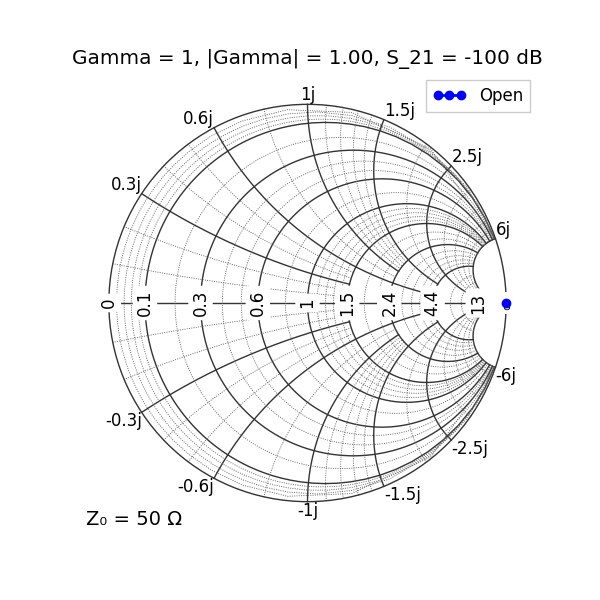
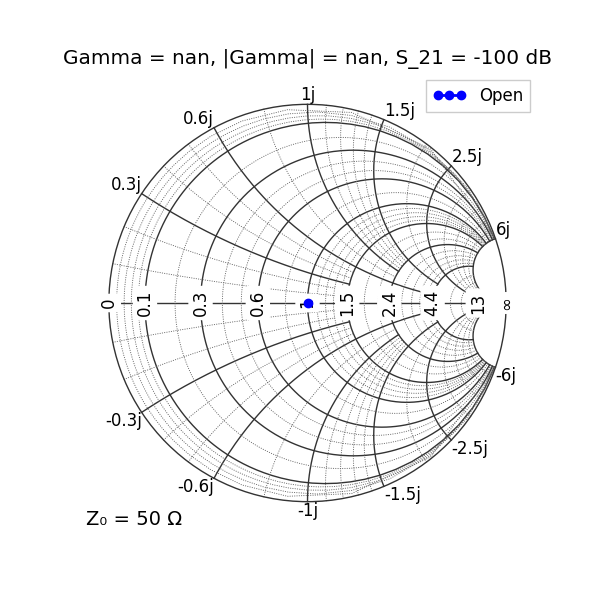
Smith chart plotter

Changed region(s): [[0.09, 0.06, 0.93, 0.12], [0.84, 0.48, 0.87, 0.51], [0.51, 0.48, 0.54, 0.51]]

diff --git a/Lab-3/Prelab/Prelab.py b/Lab-3/Prelab/Prelab.py
@@ -2,32 +2,29 @@ import numpy as np
 import matplotlib.pyplot as plt
 import pysmithchart as smith
 
-def save_smith_chart(gamma: complex, S_21: float, label: str, filename: str):
+def save_smith_chart(Z_0: complex, Z_L: complex, S_21: float, label: str, filename: str):
     plt.figure(figsize=(6, 6))
     ax = plt.subplot(111, projection="smith")
-    # Convert gamma to normalized impedance for pysmithchart
-    if abs(1 - gamma) < 1e-12:
-        z_norm = 1e6  # approximate open circuit
-    else:
-        z_norm = (1 + gamma) / (1 - gamma)
-    ax.plot([z_norm], color="blue", marker="o", ms=6, label=label)
+    gamma = (Z_L - Z_0) / (Z_L + Z_0)
+
+    ax.plot([Z_L], color="blue", marker="o", ms=6, label=label)
     ax.legend(loc="upper right")
+
     ax.set_title(f'Gamma = {gamma}, |Gamma| = {np.abs(gamma):.2f}, S_21 = {S_21} dB')
     plt.savefig(filename + '.png')
     plt.close()
-
 
 if __name__ == "__main__":
 
     Z_0 = 50 # ohms
 
     # Reflection Coefficients
-    matched_gamma = 0 
-    shorted_gamma = -1
-    open_gamma = 1
+    ZL_matched = 50
+    ZL_shorted = 0
+    ZL_open = np.inf
 
     # Corrected S_21 values
-    save_smith_chart(gamma=shorted_gamma,S_21=-100, label='Short', filename='Short_Terminated')
-    save_smith_chart(gamma=open_gamma, S_21=-100, label='Open', filename='Open_Terminated')
-    save_smith_chart(gamma=matched_gamma, S_21=-100, label='50Ω Match', filename='Matched')
-    save_smith_chart(gamma=0, S_21=0, label='50Ω Line', filename='Ports_Terminated')
+    save_smith_chart(Z_0 = 50,Z_L=ZL_shorted,S_21=-100, label='Short', filename='Short_Terminated')
+    save_smith_chart(Z_0 = 50,Z_L=ZL_open, S_21=-100, label='Open', filename='Open_Terminated')
+    save_smith_chart(Z_0 = 50,Z_L=ZL_matched, S_21=-100, label='50 Ohm Match', filename='Matched')
+    save_smith_chart(Z_0 = 50,Z_L=50, S_21=0, label='50 Ohm Line', filename='Ports_Terminated')
